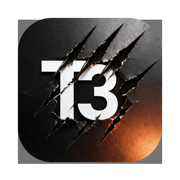
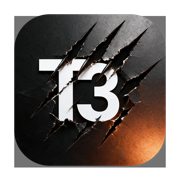
fix: icône calée sur la MESURE de Claude · liens rapides nettoyés
Icône : « elle est plus petite que celle de Claude ». Mesuré au lieu
d'ajusté — la forme opaque de Claude occupe 866 px sur 1024 (84,6 %),
la nôtre 824 (80,5 %). Recalée à 866 exactement. La grille Apple « 824 »
est la théorie ; le voisinage réel du Dock est la référence qui compte.

Revue avant build, deux défauts trouvés en relisant : un SidebarMenuButton
mort laissé dans le DOM sous chaque lien rapide, et l'indentation (pl-6)
de General/Providers/Tableau local perdue en passant au survol.

Vérification complète : 1733 tests web verts (195 fichiers), typecheck
vert sur web/serveur/desktop/contrats. Côté serveur, 7 rouges tous
PROUVÉS étrangers à cette session — 6 viennent de claudeCredentials.ts
(autre chantier, verts dès qu'on l'écarte), 1 est un timeout préexistant
(il échoue à l'identique sur la version d'avant mes changements).

diff --git a/apps/web/src/components/sidebar/SidebarChrome.tsx b/apps/web/src/components/sidebar/SidebarChrome.tsx
@@ -159,7 +159,7 @@ function QuickSettingLink({
             className="h-7 text-[13px] text-sidebar-foreground/70 hover:text-sidebar-foreground"
             onClick={() => onNavigate(link.to)}
           >
-            <span className="truncate">{link.label}</span>
+            <span className="truncate pl-6">{link.label}</span>
           </SidebarMenuButton>
         }
       />
@@ -210,12 +210,6 @@ export const SidebarChromeFooter = memo(function SidebarChromeFooter() {
         {SIDEBAR_QUICK_LINKS.map((link) => (
           <SidebarMenuItem key={link.to}>
             <QuickSettingLink link={link} onNavigate={navigateClosingMobile} />
-            <SidebarMenuButton
-              className="hidden"
-              onClick={() => navigateClosingMobile(link.to)}
-            >
-              <span className="pl-6">{link.label}</span>
-            </SidebarMenuButton>
           </SidebarMenuItem>
         ))}
         <SidebarMenuItem>
